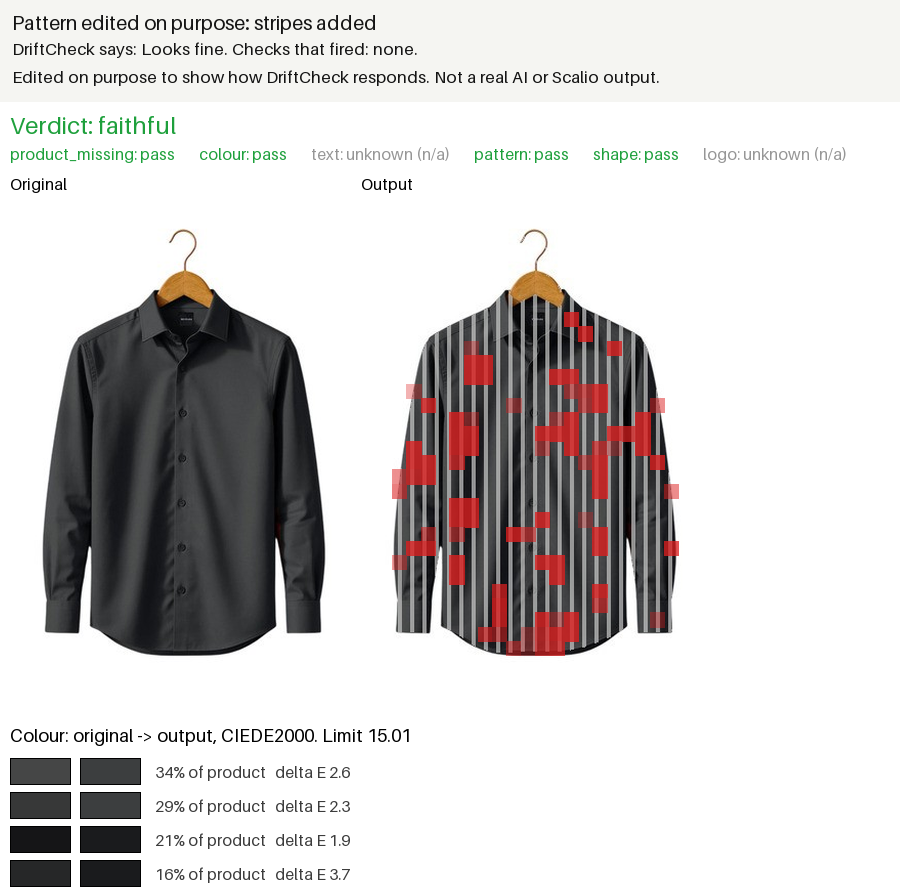
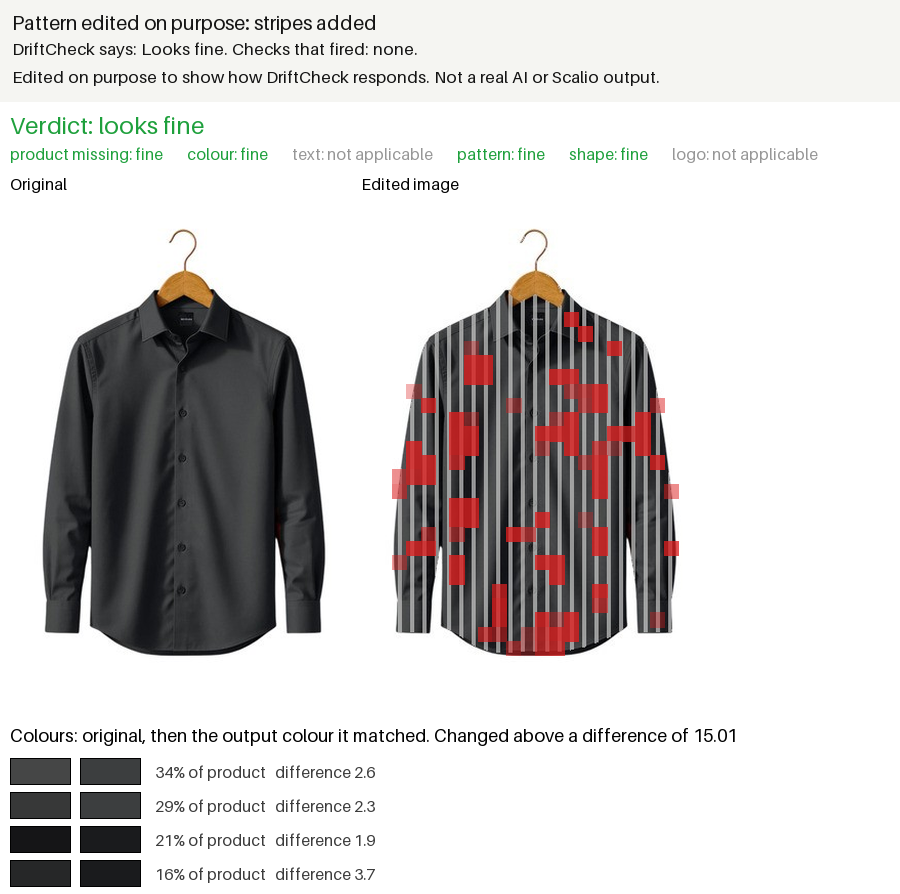
Public release cleanup: lead README with catches, plain word figures, remove brand names

Changed region(s): [[0.0933, 0.1208, 0.9333, 0.2114], [0.0622, 0.8154, 0.8089, 0.906], [0.3111, 0.9362, 0.4044, 0.9966]]

diff --git a/scripts/make_figures.py b/scripts/make_figures.py
@@ -32,35 +32,44 @@ def caption(width: int, lines: list[str]) -> Image.Image:
     return bar
 
 
+def figure(checker, title: str, original: Path, generated: Path, image_type: str, out: Path) -> dict:
+    """Run DriftCheck on one pair, save the figure to out and return what it found."""
+    from driftcheck.apps.demo_app import CHECK_NAMES, VERDICT_WORDS
+    from driftcheck.heatmap import draw_heatmap
+    from driftcheck.pipeline import load_image
+
+    report = checker.check(original, generated, image_type=image_type)
+    fired = [CHECK_NAMES[c.name] for c in report.checks if c.status == "fail"]
+    verdict = VERDICT_WORDS[report.verdict]
+    heatmap = draw_heatmap(load_image(original), load_image(generated), report, output_label="Edited image")
+    top = caption(heatmap.width, [
+        title,
+        f"DriftCheck says: {verdict}. Checks that fired: {', '.join(fired) if fired else 'none'}.",
+        "No edit, only saved again, to show a clean pass. Not a real AI or Scalio output." if title.startswith("Unchanged")
+        else "Edited on purpose to show how DriftCheck responds. Not a real AI or Scalio output.",
+    ])
+    picture = Image.new("RGB", (heatmap.width, top.height + heatmap.height), "white")
+    picture.paste(top, (0, 0))
+    picture.paste(heatmap, (0, top.height))
+    out.parent.mkdir(parents=True, exist_ok=True)
+    picture.save(out)
+    print(f"{out.name}: {verdict}, fired {fired}")
+    return {"title": title, "verdict": verdict, "fired": fired, "image_type": image_type,
+            "checks": {CHECK_NAMES[c.name]: [c.status, c.applicable, c.reason] for c in report.checks},
+            "model": os.environ["VISION_MODEL"]}
+
+
 def main() -> None:
     use_system_certificates()
-    from driftcheck.apps.demo_app import CHECK_NAMES, VERDICT_WORDS, examples
-    from driftcheck.heatmap import draw_heatmap
-    from driftcheck.pipeline import Checker, load_image
+    from driftcheck.apps.demo_app import examples
+    from driftcheck.pipeline import Checker
 
-    settings = load_settings()
-    checker = Checker.from_settings(settings)
-    FIGURES.mkdir(parents=True, exist_ok=True)
+    checker = Checker.from_settings(load_settings())
     results = []
     for example in examples():
-        report = checker.check(example.original, example.generated, image_type=example.image_type)
-        fired = [CHECK_NAMES[c.name] for c in report.checks if c.status == "fail"]
-        verdict = VERDICT_WORDS[report.verdict]
-        heatmap = draw_heatmap(load_image(example.original), load_image(example.generated), report)
-        top = caption(heatmap.width, [
-            f"{example.title}",
-            f"DriftCheck says: {verdict}. Checks that fired: {', '.join(fired) if fired else 'none'}.",
-            "Edited on purpose to show how DriftCheck responds. Not a real AI or Scalio output.",
-        ])
-        figure = Image.new("RGB", (heatmap.width, top.height + heatmap.height), "white")
-        figure.paste(top, (0, 0))
-        figure.paste(heatmap, (0, top.height))
         name = f"example_{example.slug}.png"
-        figure.save(FIGURES / name)
-        results.append({"example": example.slug, "title": example.title, "verdict": verdict, "fired": fired,
-                        "checks": {CHECK_NAMES[c.name]: [c.status, c.applicable, c.reason] for c in report.checks},
-                        "model": os.environ["VISION_MODEL"], "figure": f"docs/images/{name}"})
-        print(f"{example.slug}: {verdict}, fired {fired}")
+        found = figure(checker, example.title, example.original, example.generated, example.image_type, FIGURES / name)
+        results.append({"example": example.slug, **found, "figure": f"docs/images/{name}"})
     (ROOT / "examples" / "results.json").write_text(json.dumps(results, indent=1, ensure_ascii=False), encoding="utf-8")
 
 

diff --git a/driftcheck/heatmap.py b/driftcheck/heatmap.py
@@ -19,6 +19,9 @@ PANEL_HEIGHT = 512
 RED = (220, 30, 30)
 GREEN = (30, 160, 60)
 STATUS_COLOUR = {"pass": GREEN, "fail": RED, "unknown": (150, 150, 150)}
+# Plain words for the picture, so a reader never sees code names.
+VERDICT_WORDS = {"drifted": "changed", "faithful": "looks fine", "unknown": "not sure"}
+STATUS_WORDS = {"pass": "fine", "fail": "changed", "unknown": "not sure"}
 
 
 def _font(size: int) -> ImageFont.ImageFont:
@@ -69,7 +72,10 @@ def draw_colour_strip(report: Report, width: int) -> Image.Image:
     matches = colour.details.get("matches", [])
     strip = Image.new("RGB", (width, 44 + 34 * max(1, len(matches))), "white")
     draw = ImageDraw.Draw(strip)
-    draw.text((10, 10), f"Colour: original -> output, CIEDE2000. Limit {colour.threshold}", fill="black", font=_font(18))
+    title = "Colours: original, then the output colour it matched."
+    if colour.threshold is not None:
+        title += f" Changed above a difference of {colour.threshold}"
+    draw.text((10, 10), title, fill="black", font=_font(18))
     if not matches:
         draw.text((10, 44), colour.reason, fill="black", font=_font(16))
     for i, match in enumerate(matches):
@@ -78,24 +84,25 @@ def draw_colour_strip(report: Report, width: int) -> Image.Image:
         draw.rectangle((80, y, 140, y + 26), fill=match["output"], outline="black")
         delta = match["delta_e"]
         flag = RED if colour.threshold is not None and delta > colour.threshold else (60, 60, 60)
-        draw.text((155, y + 4), f"{match['share']:.0%} of product   delta E {delta:.1f}", fill=flag, font=_font(16))
+        draw.text((155, y + 4), f"{match['share']:.0%} of product   difference {delta:.1f}", fill=flag, font=_font(16))
     return strip
 
 
 def draw_header(report: Report, width: int) -> Image.Image:
     header = Image.new("RGB", (width, 70), "white")
     draw = ImageDraw.Draw(header)
-    draw.text((10, 8), f"Verdict: {report.verdict}", fill=STATUS_COLOUR.get(
+    draw.text((10, 8), f"Verdict: {VERDICT_WORDS[report.verdict]}", fill=STATUS_COLOUR.get(
         {"drifted": "fail", "faithful": "pass"}.get(report.verdict, "unknown")), font=_font(24))
     x = 10
     for check in report.checks:
-        label = f"{check.name}: {check.status}" + ("" if check.applicable else " (n/a)")
+        word = STATUS_WORDS[check.status] if check.applicable else "not applicable"
+        label = f"{check.name.replace('_', ' ')}: {word}"
         draw.text((x, 42), label, fill=STATUS_COLOUR[check.status], font=_font(16))
         x += int(draw.textlength(label, font=_font(16))) + 24
     return header
 
 
-def draw_heatmap(original: Image.Image, output: Image.Image, report: Report) -> Image.Image:
+def draw_heatmap(original: Image.Image, output: Image.Image, report: Report, output_label: str = "Output") -> Image.Image:
     original_panel, original_scale = _scale(original.convert("RGB"))
     output_panel, output_scale = _scale(output.convert("RGB"))
     original_panel = draw_text_boxes(original_panel, report, original_scale)
@@ -108,7 +115,7 @@ def draw_heatmap(original: Image.Image, output: Image.Image, report: Report) -> 
     canvas.paste(header, (0, 0))
     top = header.height + 24
     ImageDraw.Draw(canvas).text((10, header.height + 2), "Original", fill="black", font=_font(16))
-    ImageDraw.Draw(canvas).text((original_panel.width + 20, header.height + 2), "Output", fill="black", font=_font(16))
+    ImageDraw.Draw(canvas).text((original_panel.width + 20, header.height + 2), output_label, fill="black", font=_font(16))
     canvas.paste(original_panel, (10, top))
     canvas.paste(output_panel, (original_panel.width + 20, top))
     canvas.paste(strip, (0, top + PANEL_HEIGHT + 6))

diff --git a/tests/test_segment_ocr.py b/tests/test_segment_ocr.py
@@ -43,7 +43,7 @@ def test_normalise() -> None:
     assert normalise("ＡＢＣ") == "abc"
     assert normalise("नमस्ते!") == "नमस्ते"
     assert normalise("ಹಾಲು,") == "ಹಾಲು"
-    assert normalise("রসুই!") == "রসুই"
+    assert normalise("নুন!") == "নুন"
 
 
 def test_merge_keeps_more_confident_duplicate() -> None:
@@ -99,9 +99,9 @@ def _engine(tmp_path: Path, rows: dict, crop_rows: dict | None = None) -> OcrEng
 
 def test_text_script() -> None:
     assert ocr.text_script("ROAST") == "en"
-    assert ocr.text_script("रसोई") == "hi"
+    assert ocr.text_script("नमक") == "hi"
     assert ocr.text_script("ರಸ") == "kn"
-    assert ocr.text_script("রসুই") == "bn"
+    assert ocr.text_script("নুন") == "bn"
     assert ocr.text_script("200 / 50") is None
 
 
@@ -111,7 +111,7 @@ def test_choose_scripts_drops_made_up_devanagari() -> None:
 
 
 def test_choose_scripts_needs_a_confident_reading() -> None:
-    boxes = [TextBox("मोती", 0.57, (0, 0, 10, 10), "en_hi"), TextBox("Moti", 1.0, (0, 20, 10, 30), "en_hi")]
+    boxes = [TextBox("दूध", 0.57, (0, 0, 10, 10), "en_hi"), TextBox("Milk", 1.0, (0, 20, 10, 30), "en_hi")]
     assert ocr.choose_scripts(boxes) == ["en"]  # Hindi under 0.7 is missed; fix it by hand in selection.json
 
 
@@ -137,11 +137,11 @@ def test_read_detects_scripts_when_not_given(tmp_path: Path) -> None:
 
 def test_unsure_title_is_read_again_at_twice_the_size(tmp_path: Path) -> None:
     title = (20, 80, 140, 150)  # tall box, 35% of the image height
-    rows = {"en_bn": [(title, "রস্ুই", 0.3)]}
+    rows = {"en_bn": [(title, "নু্ন", 0.3)]}
     # In the 2x crop: a neighbour read very surely, and the title read better than before.
-    crop = {"en_bn": [((10, 0, 60, 20), "ইফদ", 0.97), ((30, 30, 270, 170), "রসুই", 0.6)]}
+    crop = {"en_bn": [((10, 0, 60, 20), "ইফদ", 0.97), ((30, 30, 270, 170), "নুন", 0.6)]}
     found = _engine(tmp_path, rows, crop).read(garment(), ["en", "bn"])
-    assert [(b.text, b.reader, b.box) for b in found] == [("রসুই", "en_bn_x2", title)]
+    assert [(b.text, b.reader, b.box) for b in found] == [("নুন", "en_bn_x2", title)]
 
 
 def test_reader_results_are_cached(tmp_path: Path) -> None:

diff --git a/README.md b/README.md
@@ -4,25 +4,17 @@ DriftCheck checks whether an AI generated product image changed the real product
 
 ## See it work
 
-These four pairs use one photo of a shirt. Each second image was edited on purpose to show how DriftCheck responds. They are not real AI outputs and not Scalio outputs. The results come from examples/results.json, made by running the full pipeline with qwen2.5vl:7b on local Ollama.
+These pairs use one photo of a shirt. The second image in each pair was edited on purpose to show how DriftCheck responds. They are not real AI outputs and not Scalio outputs. The results come from examples/results.json, made by running the full pipeline with qwen2.5vl:7b on local Ollama.
 
-**Unchanged copy.** DriftCheck says it looks fine. This is right.
-
-![Unchanged copy: DriftCheck says looks fine](docs/images/example_unchanged.png)
-
-**The black shirt made blue.** DriftCheck says changed, and the colour check fired. This is right.
+**The black shirt made blue.** DriftCheck says changed, and the colour check fired.
 
 ![Colour edited: DriftCheck says changed, colour fired](docs/images/example_colour.png)
 
-**The word SALE added to the chest.** DriftCheck says it looks fine. This is a miss. The text check only looks for text that was on the original, and this shirt had none, so new text is not checked.
+**An unchanged copy.** DriftCheck says it looks fine, and no check fired.
 
-![Text added: DriftCheck says looks fine, a miss](docs/images/example_text.png)
+![Unchanged copy: DriftCheck says looks fine](docs/images/example_unchanged.png)
 
-**Stripes added.** DriftCheck says it looks fine. This is a miss. The pattern check marked 22 percent of the shirt as different, shown in red, but at its current setting it only flags when more than 90 percent differs.
-
-![Stripes added: DriftCheck says looks fine, a miss](docs/images/example_stripes.png)
-
-So on these four, DriftCheck caught one of three changes and passed the unchanged copy. The two misses are listed under Limitations with the planned fixes.
+Two more edits of the same shirt, added text and added stripes, were missed. They are shown under Limitations, with the reason for each.
 
 ## Quickstart
 
@@ -166,11 +158,17 @@ These numbers come from reports/eval_report.json. They were measured on this dat
 ## Limitations
 
 1. **Text passes garbled words.** The tuned text threshold is a match score of 40. At that level, a brand name read back with two or three letters changed still counts as the same text. On its own, the text check caught none of the synthetic text replacements in the test half.
-2. **New text is not checked.** The text check only confirms that text on the original is still there. Text the generator adds, like the word SALE in the example above, is never looked at.
-3. **The pattern setting is loose.** The pattern check only flags when more than 90 percent of the product differs. The stripes example above marked 22 percent and passed. This setting came from tuning on the real calibration images, where worn and scene photos made the check flag good images.
+2. **New text is not checked.** The text check only confirms that text on the original is still there. Text the generator adds is never looked at. In the example below, the word SALE was added to the plain shirt on purpose. The original has no text, so the text check said not applicable and the verdict was looks fine. This is a miss.
+
+    ![Text added on purpose: DriftCheck says looks fine, a miss](docs/images/example_text.png)
+
+3. **The pattern setting is loose.** The pattern check only flags when more than 90 percent of the product differs. This setting came from tuning on the real calibration images, where worn and scene photos made the check flag good images. In the example below, stripes were added to the plain shirt on purpose. The pattern check marked 22 percent of the shirt as different, shown in red, and passed it. This is a miss.
+
+    ![Stripes added on purpose: DriftCheck says looks fine, a miss](docs/images/example_stripes.png)
+
 4. **The vision model is weak on shape.** The shape check caught 1 of 11 synthetic sleeve changes and wrongly flagged 4 of 40 good images. The logo check wrongly flagged 5 of 35.
 5. **Colour and pattern only work on flat photos.** They are skipped on model shots, lifestyle scenes and posters, so a colour or print change in those images is only caught if another check notices it.
-6. **New colours are not counted.** The colour check asks whether each original colour is still there. Colours the generator adds, like the grey stripes in the example above, do not count.
+6. **New colours are not counted.** The colour check asks whether each original colour is still there. Colours the generator adds, like the grey stripes in the example under item 3, do not count.
 7. **No real drift in the test set.** All 80 real outputs were labelled unchanged, so catches come only from synthetic changes, which are cleaner than real AI drift.
 8. **One generator.** All real outputs come from the Gemini app. The Kaggle route with Qwen Image Edit ran out of GPU memory on free Kaggle GPUs.
 9. **Small data.** 40 products and 80 real outputs.

diff --git a/PROGRESS.md b/PROGRESS.md
@@ -187,10 +187,10 @@ Phase 7: Gradio demo, 2026-10-31
 5. Checked: the app starts and serves its page.
 
 Text decision fix in the evaluation, found while building the demo
-1. Live, a text item OCR misses goes to the vision model and counts as found if its reading matches at the text threshold. The evaluation only used vision readings that matched at 95, the recording threshold, so at the tuned 40 it marked items missing that the live check finds. Example: p067 text_replace, where the vision model read NYc as NK, a score of 40.
+1. Live, a text item OCR misses goes to the vision model and counts as found if its reading matches at the text threshold. The evaluation only used vision readings that matched at 95, the recording threshold, so at the tuned 40 it marked items missing that the live check finds. Example: p067 text_replace, where the vision model read a short printed word with one letter wrong, a score of 40.
 2. driftcheck/evaluate.py now uses the saved vision readings like the live check. Thresholds unchanged. The report adds a fourth column.
 3. Measured on the test split with the fix: real test images wrongly flagged 11 of 40, from 15 of 40. Text wrong flag rate 2.9%, from 14.3%. Synthetic changes caught 57 of 99, from 58. Synthetic text recall 56.2%, from 59.4%.
-4. With a text threshold of 40, letter swaps such as BROOKLYN to UROKKLYH still count as a match, so the text check alone caught none of the synthetic text replacements in the test split. Worth a look before Phase 9.
+4. With a text threshold of 40, a word read back with two or three letters swapped still counts as a match, so the text check alone caught none of the synthetic text replacements in the test split. Worth a look before Phase 9.
 5. Previous report kept as reports/eval_report_before_textfix.md and .json.
 
 Phase 8, as the user named it: README and demo walkthrough, 2026-10-31
@@ -212,6 +212,13 @@ Public examples, 2026-11-01
 3. scripts/make_figures.py ran the full pipeline with qwen2.5vl:7b on local Ollama, flat image type, frozen thresholds, and drew docs/images/example_*.png. Results in examples/results.json: unchanged looks fine; blue changed, colour fired at 18.8 against 15.01; SALE added looks fine, a miss, text not applicable because the original has no text; stripes added looks fine, a miss, pattern found 22% different against a 90% cut off and colour 2.5.
 4. The edits and thresholds were not changed to make the misses pass. The README opens with all four figures, misses included, then a Quickstart.
 5. New gaps added to Limitations and Next steps: added text is never checked, the pattern cut off is loose, added colours are not counted. Brand text from a private product was removed from README.md and docs/limitations.md.
+
+Public release cleanup, 2026-11-01
+1. Two more photos, a chocolate pack with text and a hoodie with a back print, were offered for examples. Both show large third party brands and look like shop photos, so they were kept local only: not copied into data/samples, not committed, and test pics/ is now in .gitignore. Run locally with qwen2.5vl:7b, flat image type, frozen thresholds: unchanged pack looks fine; one word on the pack changed, caught by text; print shuffled looks fine as flat, a miss, pattern 31% against a 90% cut off; as scene, pattern did not run.
+2. The README now opens with the shirt colour catch and the clean pass. The two shirt misses, added text and added stripes, moved into Limitations with their figures.
+3. Figures use plain words: changed, looks fine, not applicable, product missing. The edited panel is labelled Edited image.
+4. Real product, brand and shop names were removed from config/selection.json, PROGRESS.md and the tests. The OCR word lists in the text reasons of the tracked report JSON files were cut, keeping the counts. Product IDs stay. Earlier commits in the git history still hold the old text.
+5. docs/limitations.md speed now matches the final report: median 51.52 s, p90 143.56 s, 2.42 vision calls per image.
 
 ## Next
 

diff --git a/docs/limitations.md b/docs/limitations.md
@@ -31,7 +31,7 @@ All of these changes were made after the first test results were seen.
 
 ## Speed and memory
 
-On a laptop with 12 GB of RAM and a 6 GB GPU, one image takes a median of 51 seconds with qwen2.5vl:7b on Ollama, and up to 146 seconds for the slowest 10 percent. With the 7b model loaded, easyocr crashed the Python process 11 times in 406 images with a Windows access violation. The evaluation restarted itself after each crash.
+On a laptop with 12 GB of RAM and a 6 GB GPU, one real output took a median of 51.5 seconds with qwen2.5vl:7b on Ollama, and 143.6 seconds for the slowest 10 percent, with 2.42 vision calls per image. With the 7b model loaded, easyocr crashed the Python process 11 times in 406 images with a Windows access violation. The evaluation restarted itself after each crash.
 
 ## Text
 
